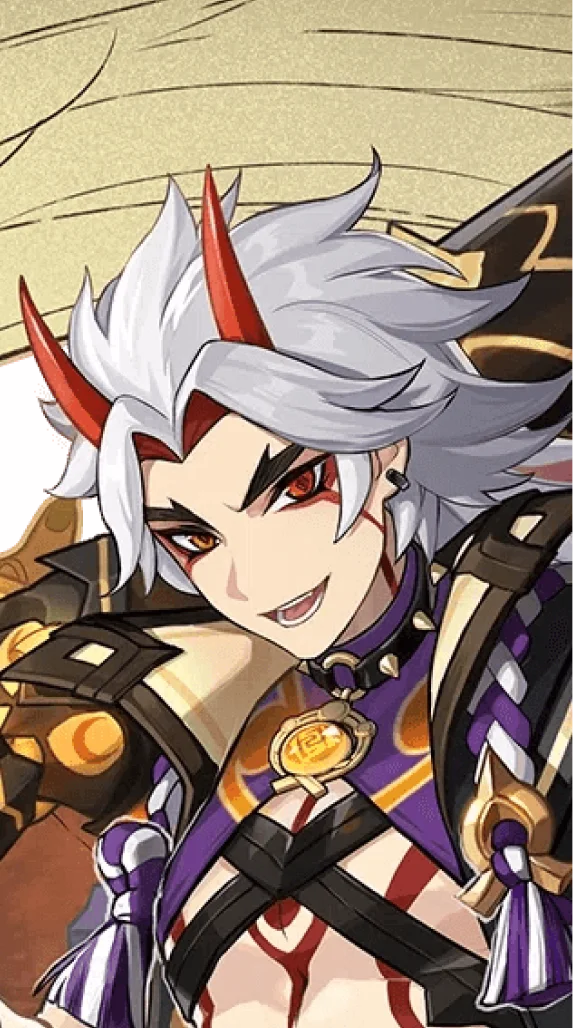
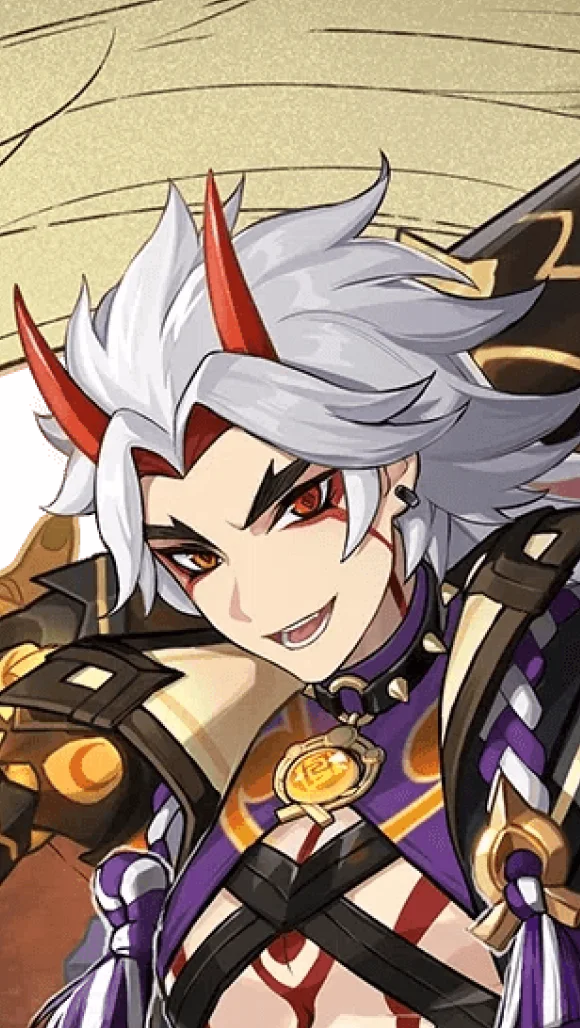
Added arlecchino, fixed itto vs image

diff --git a/src/data/index.ts b/src/data/index.ts
@@ -114,6 +114,18 @@ export const Characters: Character[] = [
     version: "2",
   },
   {
+    name: "Arlecchino",
+    vision: "Pyro",
+    image: "Arlecchino.webp",
+    rarity: "VeryRare",
+    sex: "Female",
+    bodyType: "Adult",
+    weapon: "Polearm",
+    region: "Fontaine",
+    version: "4",
+    isNew: true,
+  },
+  {
     name: "Baizhu",
     vision: "Dendro",
     image: "Baizhu.webp",
@@ -200,7 +212,6 @@ export const Characters: Character[] = [
     weapon: "Sword",
     region: "Inazuma",
     version: "4",
-    isNew: true,
   },
   {
     name: "Chongyun",

diff --git a/src/views/Home/index.vue b/src/views/Home/index.vue
@@ -48,7 +48,7 @@
         <h3 class="text-md mb-1 font-semibold">Web App</h3>
         <div class="text-gray-300 drop-shadow-none">
           <ul class="list-disc pl-8">
-            <li>Enhanced Chat Box UI</li>
+            <li>Fixed Itto VS image</li>
           </ul>
         </div>
       </div>
